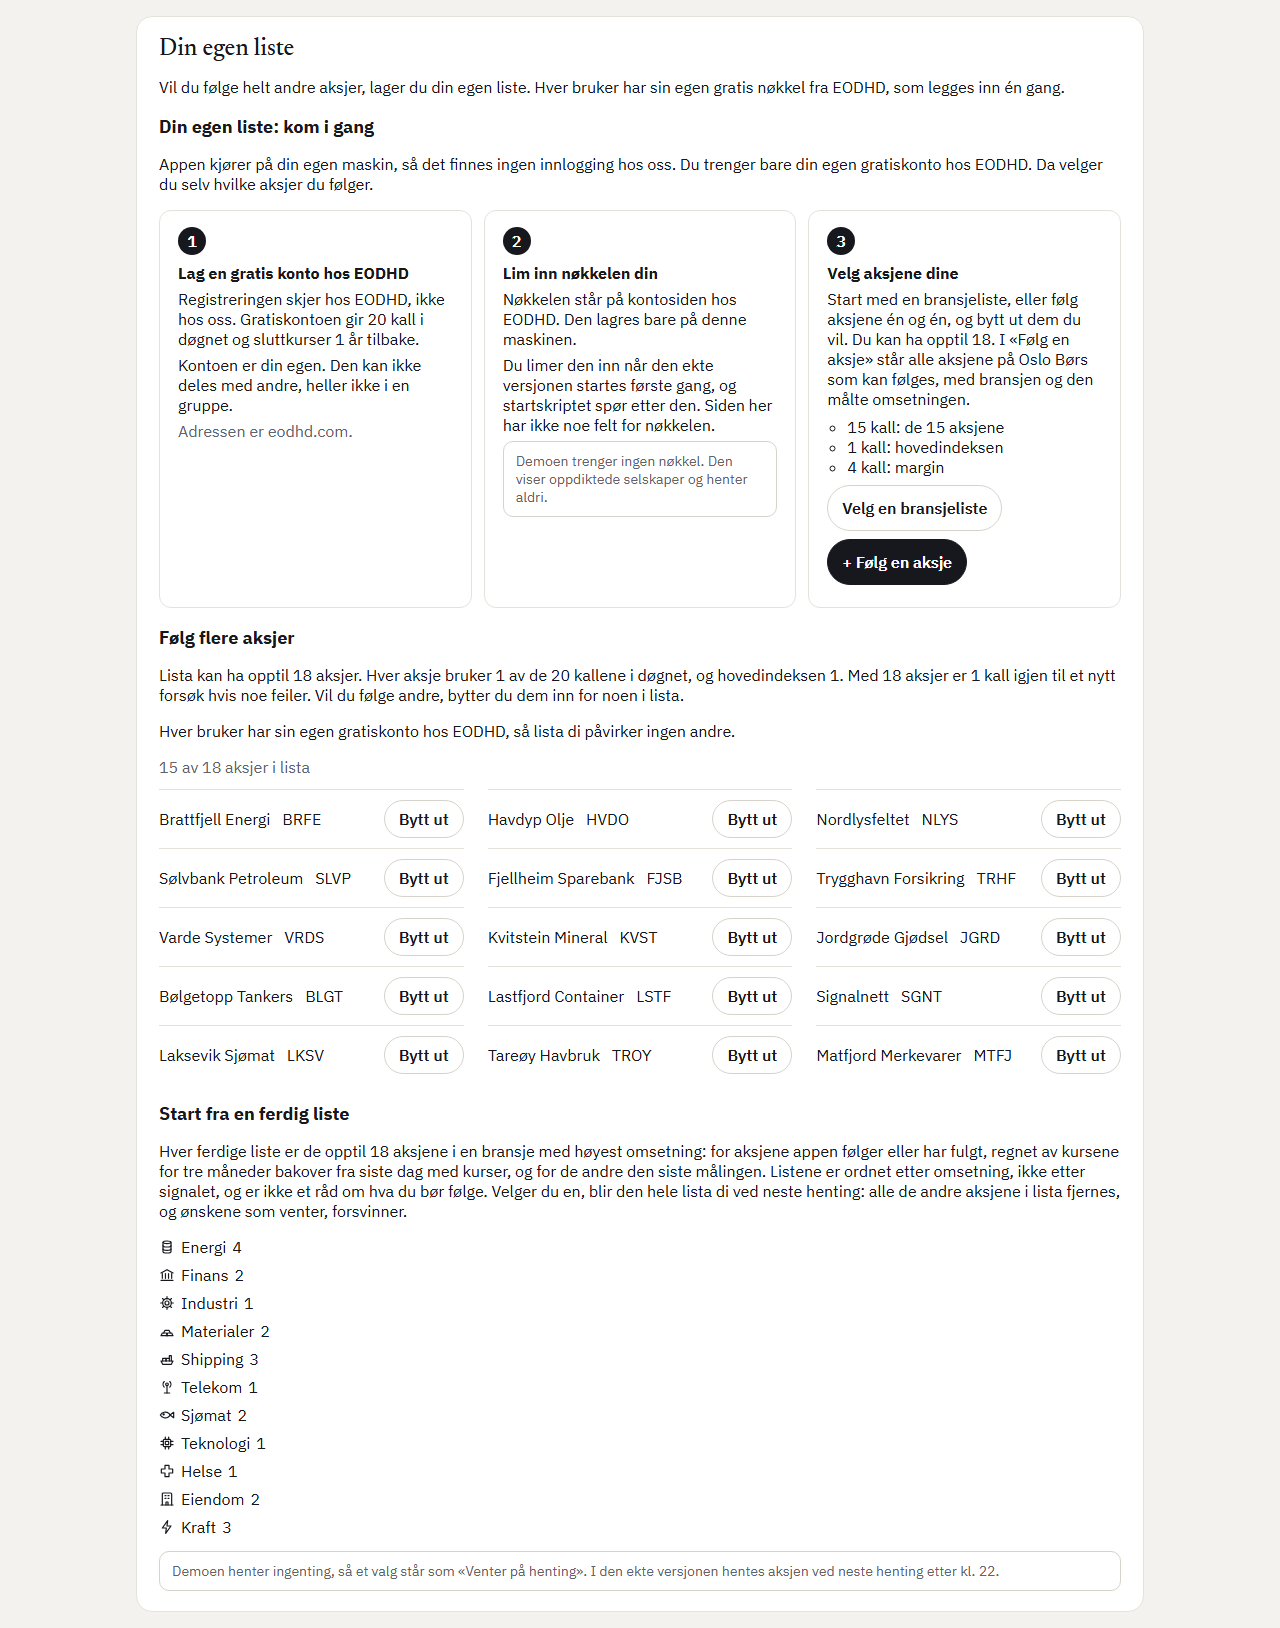
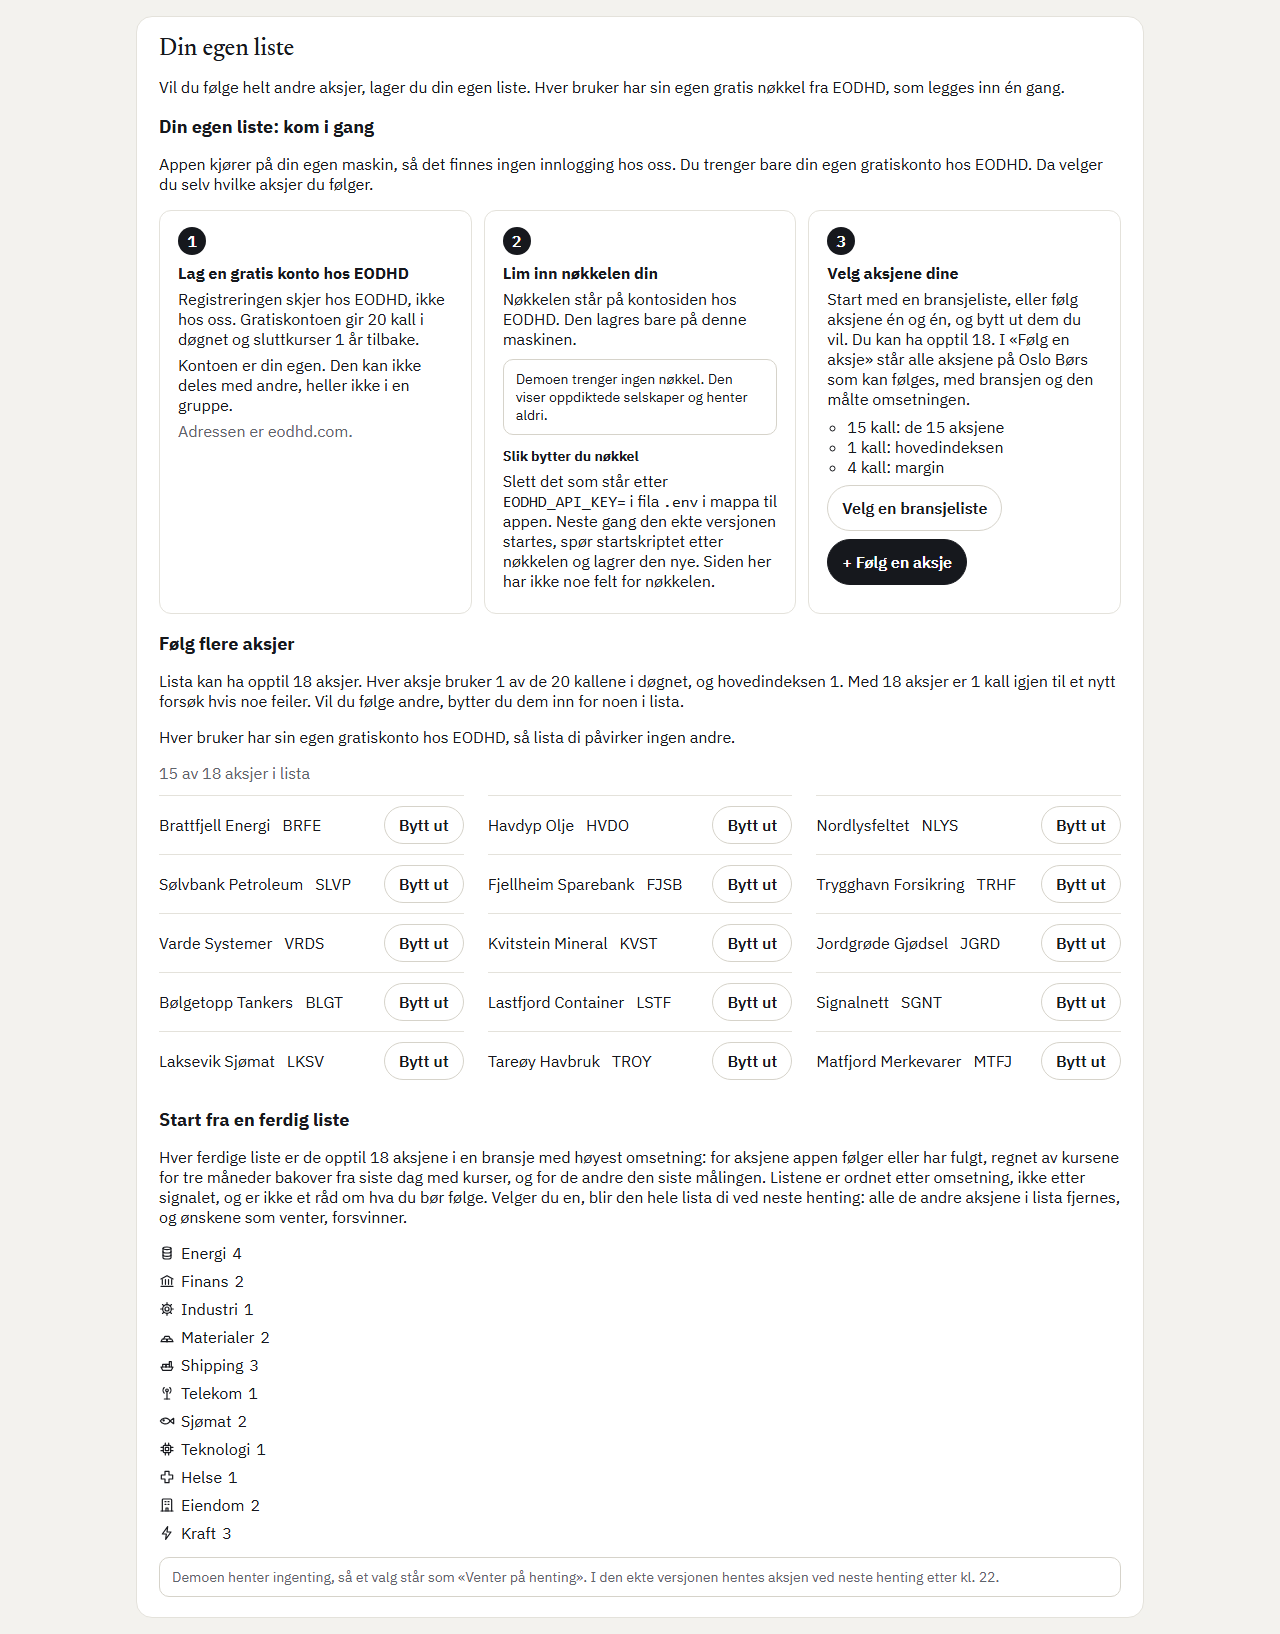
Story 8.22, tillegg 4: steg 2 i «Din egen liste» som på tavla, uten felt
Svaret 10.11 kl. 22:50. Kortet er det samme i demoen og i den ekte
versjonen, med tekstene fra utdraget §2. Der tavla har feltet og «Sjekk
nøkkelen», står statusen regnet av siste henting (valg.siste_henting),
uten kall og uten å lese .env (AD-10, svaret 08.11 kl. 12:39). Under står
«Slik bytter du nøkkel». Avviket står i spesifikasjonen. Avtrykkene er
regnet ut paa nytt, og bildet av «Din egen liste» er 1634 px.

diff --git a/src/templates/_egne.html b/src/templates/_egne.html
@@ -61,9 +61,20 @@
       <span class="stegnummer" aria-hidden="true">2</span>
       <h4>Lim inn nøkkelen din</h4>
       <p>Nøkkelen står på kontosiden hos EODHD. Den lagres bare på denne maskinen.</p>
-      <p>Du limer den inn når den ekte versjonen startes første gang, og startskriptet spør etter den. Siden her har ikke noe felt for nøkkelen.</p>
-      {#- Tillegget 10.11 kl. 17:16 (svaret kl. 15:57): demoen trenger ingen nøkkel. #}
-      {% if eksempeltall %}<p class="demoboks">Demoen trenger ingen nøkkel. Den viser oppdiktede selskaper og henter aldri.</p>{% endif %}
+      {#- Tillegg 4 (svaret 10.11 kl. 22:50): kortet er det samme i demoen og
+          i den ekte versjonen. Der tavla har feltet og «Sjekk nøkkelen», står
+          statusen regnet av siste henting (valg.siste_henting), uten kall og
+          uten å lese .env (AD-10, svaret 08.11 kl. 12:39). Demoen viser at den
+          ikke trenger nøkkel på samme plass (tillegget kl. 17:16). #}
+      {% if eksempeltall %}
+        <p class="noekkelstatus">Demoen trenger ingen nøkkel. Den viser oppdiktede selskaper og henter aldri.</p>
+      {% elif egne.henting %}
+        <p class="noekkelstatus virker">Nøkkelen virker: siste henting {{ egne.henting.dag|dato }} brukte {{ egne.henting.kall }} av 20 kall.</p>
+      {% else %}
+        <p class="noekkelstatus">Ingen henting har gått ennå. Start den ekte versjonen med startskriptet: første gang spør det etter nøkkelen, og du limer den inn der. Aksjene hentes ved neste henting etter kl. 22.</p>
+      {% endif %}
+      <h5>Slik bytter du nøkkel</h5>
+      <p>Slett det som står etter <code>EODHD_API_KEY=</code> i fila <code>.env</code> i mappa til appen. Neste gang den ekte versjonen startes, spør startskriptet etter nøkkelen og lagrer den nye. Siden her har ikke noe felt for nøkkelen.</p>
     </li>
     <li class="kort-steg">
       <span class="stegnummer" aria-hidden="true">3</span>

diff --git a/src/static/stil.css b/src/static/stil.css
@@ -1218,6 +1218,11 @@ p.investorboble .skjult { position: absolute; width: 1px; height: 1px; overflow:
                                      border-radius: 50%; background: var(--blekk); color: var(--hvit); font-weight: 600; }
 :where(.side-oversikt) .kort-steg .adresse { color: var(--dempet); }
 :where(.side-oversikt) .kort-steg .kallene { margin: 8px 0; padding-left: 20px; }
+/* Tillegg 4 (svaret 10.11 kl. 22:50): statusen der tavla har feltet, som en boks i samme stil
+   som demoboksen, men uten fargen til signalet. */
+:where(.side-oversikt) .kort-steg .noekkelstatus { margin: 10px 0; padding: 10px 12px; border: 1px solid var(--strek-2);
+                                                   border-radius: 10px; font-size: 14px; }
+:where(.side-oversikt) .kort-steg h5 { margin: 12px 0 4px; font-size: 14px; }
 :where(.side-oversikt) .stegknapper { display: flex; flex-wrap: wrap; gap: 8px; align-items: center; }
 :where(.side-oversikt) .folgskjema { display: grid; gap: 10px; margin: 16px 0; }
 :where(.side-oversikt) .folgskjema .knapper { display: flex; gap: 12px; justify-content: flex-end; }

diff --git a/tests/test_din_egen_liste_8_22.py b/tests/test_din_egen_liste_8_22.py
@@ -39,13 +39,17 @@ def test_tre_stegkort_i_rekkefoelgen_fra_utdraget(klient):  # noqa: F811
 
 
 def test_noekkelen_har_ikke_noe_felt(klient):  # noqa: F811
-    """AD-10 og svaret 08.11 kl. 12:39: ville feilet hvis siden fikk et felt
-    for nøkkelen, eller steg 2 ikke sa at den limes inn ved oppstart."""
+    """AD-10 og svaret 08.11 kl. 12:39, som står etter tillegg 4: ville feilet
+    hvis siden fikk et felt eller en knapp for nøkkelen, eller steg 2 ikke
+    sa hvordan nøkkelen byttes med startskriptet."""
     html = klient.get("/min-liste").data.decode("utf-8")
     andre = _kortene(html)[1]
-    assert "startskriptet spør etter den" in andre and "<input" not in andre
+    assert "<input" not in andre and "<button" not in andre and "Sjekk nøkkelen" not in andre
     assert not re.search(r'<input[^>]*type="(text|password)"', _delen(html))
     assert "Demoen trenger ingen nøkkel" not in andre
+    assert "<h5>Slik bytter du nøkkel</h5>" in andre
+    assert "Neste gang den ekte versjonen startes, spør startskriptet etter nøkkelen og lagrer den nye." in andre
+    assert "Nøkkelen står på kontosiden hos EODHD. Den lagres bare på denne maskinen." in andre
 
 
 def test_kallene_og_knappene_i_steg_3(klient):  # noqa: F811
@@ -110,3 +114,125 @@ def test_kallene_i_steg_3_er_regnet_av_lista(klient, stier):  # noqa: F811
     tredje = _kortene(klient.get("/min-liste").data.decode("utf-8"))[2]
     assert "<li>15 kall: de 15 aksjene</li>" in tredje and "<li>1 kall: din egen aksje</li>" in tredje
     assert "<li>3 kall: margin</li>" in tredje
+
+
+# Tillegg 4 (svaret 10.11 kl. 22:50): steg 2 som på designtavla, uten felt.
+# Der tavla har feltet og «Sjekk nøkkelen», står statusen regnet av siste
+# henting, uten kall og uten å lese .env.
+
+
+def _klient_med_henting(stier, monkeypatch):  # noqa: F811
+    """Som klient i test_valg, men med kallene fra hentingen talt."""
+    import lagring_sqlite
+    from test_fetch_prices import OEYEBLIKK_22_09, kjoer_23
+    from test_valg import med_boersen
+
+    raa, base = stier
+    _, kall, _ = kjoer_23(raa, base, OEYEBLIKK_22_09)
+    med_boersen(base)
+    monkeypatch.setattr(lagring_sqlite, "BASE_STI", base)
+    monkeypatch.setattr(app_modul, "naa", lambda: datetime(2026, 9, 23, 12, 0).astimezone())
+    app_modul.app.config["TESTING"] = True
+    return app_modul.app.test_client(), kall
+
+
+def test_statusen_er_kallene_hentingen_brukte(stier, monkeypatch):  # noqa: F811
+    """Ville feilet hvis statusen i steg 2 ikke var kallene den siste
+    hentingen faktisk brukte, talt i hentingen selv, med dagen."""
+    k, kall = _klient_med_henting(stier, monkeypatch)
+    andre = _kortene(k.get("/min-liste").data.decode("utf-8"))[1]
+    assert kall
+    assert (
+        f'<p class="noekkelstatus virker">Nøkkelen virker: siste henting 22.09 brukte {len(kall)} av 20 kall.</p>'
+        in andre
+    )
+    assert "Ingen henting har gått ennå" not in andre
+
+
+def test_uten_henting_staar_hva_man_gjoer(klient, stier):  # noqa: F811
+    """Ville feilet hvis steg 2 sa at nøkkelen virker uten at noen henting
+    har gått, eller ikke sa hva man gjør."""
+    from lagring_sqlite import aapne_base
+
+    t = aapne_base(stier[1])
+    try:
+        with t:
+            t.execute("DELETE FROM kursserie")
+            t.execute("DELETE FROM indeksserie")
+    finally:
+        t.close()
+    andre = _kortene(klient.get("/min-liste").data.decode("utf-8"))[1]
+    assert "Nøkkelen virker" not in andre
+    assert (
+        "Ingen henting har gått ennå. Start den ekte versjonen med startskriptet: første gang spør det etter "
+        "nøkkelen, og du limer den inn der. Aksjene hentes ved neste henting etter kl. 22."
+    ) in andre
+
+
+def test_statusen_leser_aldri_noekkelen(klient, monkeypatch):  # noqa: F811
+    """AD-10: ville feilet hvis siden leste nøkkelen fra miljøet eller .env,
+    eller viste den."""
+    import os
+
+    hemmelig = "IKKE-EN-EKTE-NOEKKEL-8-22"
+    monkeypatch.setenv("EODHD_API_KEY", hemmelig)
+    lest = []
+    ekte_getenv = os.getenv
+    monkeypatch.setattr(os, "getenv", lambda n, *a: lest.append(n) or ekte_getenv(n, *a))
+    html = klient.get("/min-liste").data.decode("utf-8")
+    assert hemmelig not in html and "EODHD_API_KEY" not in lest
+    import valg
+
+    assert "environ" not in valg.siste_henting.__code__.co_names
+    assert ".env" not in valg.siste_henting.__code__.co_consts
+
+
+def test_siste_henting_er_dagen_i_oslo(tmp_path):
+    """Ville feilet hvis dagen ble regnet i UTC, eller kallene fra en eldre
+    henting ble talt med. 23:30 UTC 09.11 er 10.11 i Oslo."""
+    from datetime import date
+
+    import valg
+    from lagring_sqlite import aapne_base
+
+    base = tmp_path / "db" / "ose.db"
+    base.parent.mkdir(parents=True)
+    t = aapne_base(base)
+    try:
+        assert valg.siste_henting(t) is None
+        with t:
+            t.executemany(
+                "INSERT INTO kursserie (symbol, hentet) VALUES (?, ?)",
+                [
+                    ("AAA", "2026-11-09T23:30:00+00:00"),
+                    ("BBB", "2026-11-09T23:31:00+00:00"),
+                    ("CCC", "2026-11-09T21:00:00+00:00"),
+                ],
+            )
+            t.execute("INSERT INTO indeksserie (symbol, hentet) VALUES (?, ?)", ("OSEBX", "2026-11-09T23:32:00+00:00"))
+        assert valg.siste_henting(t) == valg.SisteHenting(date(2026, 11, 10), 3)
+    finally:
+        t.close()
+
+
+def test_demoen_har_det_samme_kortet(tmp_path, monkeypatch):
+    """Tillegg 4: ville feilet hvis steg 2 i demoen var et annet kort enn i
+    den ekte versjonen, eller sa noe om nøkkelen virker."""
+    import demo
+    from lagring_sqlite import demo_sti
+
+    mal = tmp_path / "demo.db"
+    demo.lag_demobase(mal, skriv=lambda _: None)
+    sti = demo_sti()
+    sti.parent.mkdir(parents=True, exist_ok=True)
+    shutil.copy(mal, sti)
+    monkeypatch.setenv(app_modul.I_DEMO, "1")
+    monkeypatch.delenv(app_modul.I_DOCKER, raising=False)
+    monkeypatch.setattr(app_modul, "naa", lambda: datetime(2026, 10, 13, 12, 0).astimezone())
+    andre = _kortene(app_modul.app.test_client().get("/min-liste").data.decode("utf-8"))[1]
+    assert (
+        '<p class="noekkelstatus">Demoen trenger ingen nøkkel. Den viser oppdiktede selskaper og henter aldri.</p>'
+        in andre
+    )
+    assert "Nøkkelen virker" not in andre and "Ingen henting har gått ennå" not in andre
+    assert "<h5>Slik bytter du nøkkel</h5>" in andre and "<input" not in andre

diff --git a/tests/test_docker.py b/tests/test_docker.py
@@ -1319,7 +1319,8 @@ HOEYDE_PAA_BILDET = 1864
 # Gjennomgangen av 8.22: ferdige_lister.py, valg.py, stil.css og hjelp.js. Bildet er byte for byte det samme.
 # Flettingen av main (med 2.4, 2.6, 8.14, 8.7, 8.9 og 2.13b) inn i 8.22: avtrykkene er regnet ut paa nytt,
 # og bildene er tatt paa nytt.
[1 lines of base64/hex data omitted]
+# Tillegg 4 til 8.22 (svaret 10.11 kl. 22:50): stil.css og _egne.html. Bildet er byte for byte det samme.
[1 lines of base64/hex data omitted]
 SLIK_TAS_BILDET = (
     "Oversikten er endret, så skjermbildet viser noe annet enn demoen. Ta "
     f"{SKJERMBILDET} på nytt etter «Bildet» i spesifikasjonen 3.3b: demobasen i en "
@@ -1753,7 +1754,8 @@ HOEYDE_PAA_AKSJESIDEN = 2258
 # Gjennomgangen av 8.22: de samme filene. Bildet er byte for byte det samme.
 # Flettingen av main (med 2.4, 2.6, 8.14, 8.7, 8.9 og 2.13b) inn i 8.22: avtrykkene er regnet ut paa nytt,
 # og bildene er tatt paa nytt.
[1 lines of base64/hex data omitted]
+# Tillegg 4 til 8.22: stil.css. Bildet er byte for byte det samme.
[1 lines of base64/hex data omitted]
 SLIK_TAS_AKSJESIDEN = (
     "Aksjesiden er endret, så bildet av den viser noe annet enn demoen. Ta "
     f"{AKSJESIDEBILDET} på nytt med fremgangsmåten i spesifikasjonen 3.3b, mot /aksje/BRFE: "
@@ -1822,7 +1824,8 @@ DE_NYE_BILDENE = {
     # Flettingen av 2.12 inn i 8.11: 1216 som i 8.11, med «Start fra en ferdig liste».
     # Story 8.11b: 1432, med de ni ferdige listene i demoen.
     # Story 8.22: 1628, med de tre stegkortene og 11 ferdige lister i demoen.
-    "docs/appen/din-egen-liste-demo.png": ("/min-liste", 1280, 1628, FILENE_BAK_MIN_LISTE),
+    # Tillegg 4 (svaret 10.11 kl. 22:50): 1634, med statusen og «Slik bytter du nøkkel» i steg 2.
+    "docs/appen/din-egen-liste-demo.png": ("/min-liste", 1280, 1634, FILENE_BAK_MIN_LISTE),
     # Story 8.22: «Følg en aksje» i demoen med Kraft valgt, hele siden (1326 px), sist i knappen.
     # Flettingen av main (8.9, «Vis meg rundt») inn i 8.22: 1368. Bekreftelsen sier «Demo Børs» i
     # demoen (folg.html); bildet er byte for byte det samme.
@@ -1930,16 +1933,18 @@ DE_NYE_BILDENE = {
 # «Din egen liste» er ny (1628 px, med stegkortene og 11 ferdige lister); de andre er byte for byte de samme.
 # Gjennomgangen av 8.22: ferdige_lister.py, valg.py, folg.html, hjelp.js og stil.css, og det nye
 # bildet av «Følg en aksje» (VG2). Alle bildene ble tatt paa nytt; de andre er byte for byte de samme.
+# Tillegg 4 til 8.22 (svaret 10.11 kl. 22:50): steg 2 i «Din egen liste» (_egne.html, app.py, valg.py og
+# stil.css). Alle bildene ble tatt paa nytt; «Din egen liste» er ny (1634 px), de andre er byte for byte de samme.
 AVTRYKK_BAK_DE_NYE_BILDENE = {
[18 lines of base64/hex data omitted]
 }
 SLIK_TAS_DE_NYE_BILDENE = (
     "Siden bak {bildet} er endret, så bildet viser noe annet enn demoen. Ta det på nytt som "

diff --git a/src/valg.py b/src/valg.py
@@ -111,6 +111,36 @@ def kallene(i_lista: int, folg: int, fjern: int) -> tuple[int, int, int]:
     return sist, neste, KVOTE - neste
 
 
+@dataclass(frozen=True)
+class SisteHenting:
+    """Story 8.22, tillegg 4 (svaret 10.11 kl. 22:50): dagen for den siste
+    hentingen og kallene den brukte, regnet av seriene den lagret."""
+
+    dag: date
+    kall: int
+
+
+def siste_henting(tilkobling: sqlite3.Connection) -> SisteHenting | None:
+    """Den siste hentingen, regnet av basen alene: uten kall og uten å lese
+    .env (AD-10). Dagen er den siste i kursserie.hentet og
+    indeksserie.hentet, i Europe/Oslo, og kallene er seriene som ble hentet
+    den dagen, ett kall per serie. Et nytt forsøk som feilet, lagret ingen
+    serie og telles ikke. None: ingen henting har gått, eller basen kan ikke
+    leses."""
+    try:
+        hentet = [
+            datetime.fromisoformat(rad[0]).astimezone(OSLO).date()
+            for tabell in ("kursserie", "indeksserie")
+            for rad in tilkobling.execute(f"SELECT hentet FROM {tabell}")
+        ]
+    except (sqlite3.Error, ValueError, TypeError):
+        return None
+    if not hentet:
+        return None
+    dag = max(hentet)
+    return SisteHenting(dag, sum(d == dag for d in hentet))
+
+
 def har_tabellene(tilkobling: sqlite3.Connection) -> bool:
     """Har basen tabellene fra 0010? En base en versjon bak har dem ikke, og
     da viser siden ikke valget. En base som ikke kan leses, gir False."""

diff --git a/src/app.py b/src/app.py
@@ -1838,6 +1838,9 @@ def _egne_regnet() -> dict | None:
                 "med_en": med_en,
                 "igjen_med_en": igjen_med_en,
             },
+            # Story 8.22, tillegg 4 (svaret kl. 22:50): status for nøkkelen i
+            # steg 2, regnet av siste henting, uten kall og uten .env (AD-10).
+            "henting": valg.siste_henting(g.tilkobling),
         }
     except (*BASEFEIL, ValueError) as feil:
         app.logger.warning("Valget kunne ikke leses: %s: %s", type(feil).__name__, feil)

diff --git a/_bmad-output/implementation-artifacts/spec-8-22-foelg-en-aksje-og-min-liste.md b/_bmad-output/implementation-artifacts/spec-8-22-foelg-en-aksje-og-min-liste.md
@@ -20,6 +20,7 @@ Skrevet 10.11 kl. 16:32 i instruksjonen kl. 16:26 («Del B 10.11», vindu 4). In
 - **Kl. 14:43:** gruppen sjekket lista på en delt side. Alle 195 forslag og usikre er avgjort: 194 som foreslått, og MULTI er tatt ut, fordi en fusjon gjør det usikkert hva som skjer. De 195 er de 210 forslagene minus de 15 aksjene i lista, som har bransjen fra `designregler.md` §4. Kilden er svarene kl. 16:22 og 16:25 i vindu 2, i den samme mappa.
 - **Kl. 15:22:** SCOIN er ute, som 08.11 kl. 22:03, fordi selskapet er under avvikling. Kilden er den samme.
 - **Kl. 14:59:** ingen fletting. Storyen stopper når PR-en er grønn (steg 3 i instruksjonen).
+- **Kl. 22:50 (tillegg 4, instruksjonen kl. 22:52):** steg 2 i «Din egen liste» blir som på designtavla, men uten felt, og AD-10 og svaret 08.11 kl. 12:39 står. Rådet anbefalte det. Svaret føres i `epics.md` med de andre svarene når del B flettes. Se «Tillegg 4: steg 2 som på tavla» nedenfor.
 - **Kl. 13:54 og 14:53:** instruksjonen viser til dem, men ordlyden er ikke funnet i repoet eller i scratchpad-mappene 10.11 (regel 11). Storyen bygger på det instruksjonen sier om «Følg en aksje» og Min liste, og siterer dem ikke.
 
 ## Slått opp 10.11 på `53ff012c` (regel 3)
@@ -116,6 +117,22 @@ Ingen funn på middels eller over står åpne uten spørsmål. ECH5 er middels h
 Instruksjonen kl. 20:43: main ble flettet inn da 2.13b var flettet (kl. 21:14), med 2.4, 2.6, 8.14, 8.7, 8.9 og 2.13b. Konfliktene var avtrykkene i `test_docker.py` og bildet av «Din egen liste». Avtrykkene er regnet ut på nytt, og alle bildene er tatt på nytt med DevTools-protokollen. «Følg en aksje» er 1368 px høy med «Vis meg rundt» fra 8.9 (var 1326), og «Din egen liste» er fortsatt 1628 px.
 
 Testene for rettingene etter gjennomgangen ble kjørt først etter flettingen, på grunn av tillegget kl. 17:46. Én feilet: VG3-testen fant ingen kode på bekreftelsen «Følge …?», fordi koden står i det skjulte feltet og ikke i en lenke. Testen leser nå feltet. Bekreftelsen sa også «Aksje på Oslo Børs» i demoen, og sier nå «Demo Børs» som lista. Mutantene for rettingene ble fanget: forslagene skjules av søket igjen (`rad(a)`), ønsker for MULTI og SCOIN tas i bruk, `bransjen` slipper MULTI og SCOIN gjennom, og bekreftelsen sier «Oslo Børs» i demoen.
+
+## Tillegg 4: steg 2 som på tavla
+
+Svaret 10.11 kl. 22:50. Steg 2 er det samme kortet i demoen og i den ekte versjonen, med overskriften og teksten fra `designutdrag-2026-11-08.md` §2: «Lim inn nøkkelen din» og «Nøkkelen står på kontosiden hos EODHD. Den lagres bare på denne maskinen.»
+
+**Avvik fra tavla:** tavla har feltet «API-nøkkel», knappen «Sjekk nøkkelen» og «Nøkkelen virker. 20 kall igjen i dag.». Webserveren rører aldri nøkkelen og henter aldri (AD-10, svaret 08.11 kl. 12:39), så der står i stedet en status regnet av siste henting:
+
+- **Den ekte versjonen, etter en henting:** «Nøkkelen virker: siste henting 10.11 brukte 19 av 20 kall.» `valg.siste_henting` leser bare basen, uten kall og uten `.env`. Dagen er den siste i `kursserie.hentet` og `indeksserie.hentet`, i Europe/Oslo. Kallene er seriene som ble lagret den dagen, ett kall per serie. Et nytt forsøk som feilet, lagret ingen serie og telles ikke, og det gjør heller ikke målingen av omsetningen med bonuskvoten (2.13b). Den ekte basen ga 10.11 kl. 22:57 «10.11» og 19, lest med `mode=ro`, med samme sha256 før og etter.
+- **Den ekte versjonen, før første henting:** «Ingen henting har gått ennå. Start den ekte versjonen med startskriptet: første gang spør det etter nøkkelen, og du limer den inn der. Aksjene hentes ved neste henting etter kl. 22.»
+- **Demoen:** «Demoen trenger ingen nøkkel. Den viser oppdiktede selskaper og henter aldri.» på samme plass.
+
+Under står «Slik bytter du nøkkel», med det startskriptet gjør (`start/start.ps1` og `start/start.sh`): «Slett det som står etter `EODHD_API_KEY=` i fila `.env` i mappa til appen. Neste gang den ekte versjonen startes, spør startskriptet etter nøkkelen og lagrer den nye. Siden her har ikke noe felt for nøkkelen.»
+
+**Grense:** statusen sier at nøkkelen virket ved siste henting, ikke at den virker nå. Er nøkkelen slettet eller byttet etter hentingen, ser siden det ikke før neste henting. Dagen står i teksten, så en gammel henting synes.
+
+Testene står i `test_din_egen_liste_8_22.py`. Kallene sammenlignes med kallene hentingen selv talte (`kjoer_23`). Det er også tester for siden uten henting, for at nøkkelen aldri leses, for dagen i Oslo og for demoen.
 
 ## Spørsmål etter gjennomgangen
 
